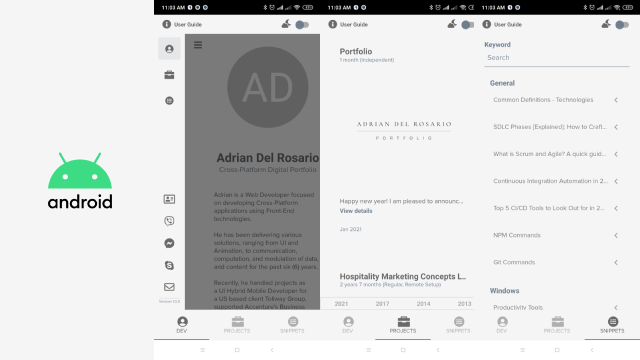
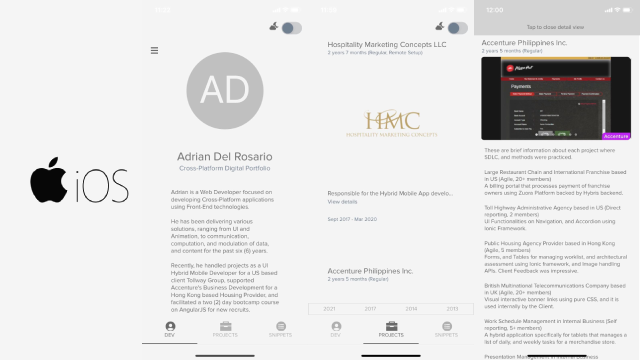
Add projs cover images

diff --git a/app/constants/Projects.tsx b/app/constants/Projects.tsx
@@ -18,6 +18,12 @@ The application supports most common platforms such as, **Web**, **Android**, an
         images: [
           {
             coverImageUri:
+              "https://raw.githubusercontent.com/adriandelr/portfolio/master/app/assets/images/projects/proj-pp.png",
+            cornerLabelColor: "#101111",
+            cornerLabelText: "Portfolio",
+          },
+          {
+            coverImageUri:
               "https://raw.githubusercontent.com/adriandelr/portfolio/master/app/assets/images/projects/proj-pp-1.png",
             cornerLabelColor: "#101111",
             cornerLabelText: "Portfolio",
@@ -81,6 +87,12 @@ Published in both Android and iOS stores.
         date: "Sept 2017 - Mar 2020",
         image: require("../assets/images/logos/logo-hmc.png"),
         images: [
+          {
+            coverImageUri:
+              "https://raw.githubusercontent.com/adriandelr/portfolio/master/app/assets/images/projects/proj-hmc.png",
+            cornerLabelColor: "#B6985A",
+            cornerLabelText: "HMC",
+          },
           {
             coverImageUri:
               "https://raw.githubusercontent.com/adriandelr/portfolio/master/app/assets/images/projects/proj-hmc-1.png",
@@ -171,6 +183,12 @@ Sharing knowledge, and experience on frameworks, data structures, request handli
         images: [
           {
             coverImageUri:
+              "https://raw.githubusercontent.com/adriandelr/portfolio/master/app/assets/images/projects/proj-acn.png",
+            cornerLabelColor: "#BC0DF6",
+            cornerLabelText: "Accenture",
+          },
+          {
+            coverImageUri:
               "https://raw.githubusercontent.com/adriandelr/portfolio/master/app/assets/images/projects/proj-acn-1.png",
             cornerLabelColor: "#BC0DF6",
             cornerLabelText: "Accenture",
@@ -243,6 +261,12 @@ discount based on their location and their shopping preference.
             cornerLabelColor: "#002D42",
             cornerLabelText: "Wideout",
           },
+          {
+            coverImageUri:
+              "https://raw.githubusercontent.com/adriandelr/portfolio/master/app/assets/images/projects/proj-wo-1.png",
+            cornerLabelColor: "#002D42",
+            cornerLabelText: "Wideout",
+          },
         ],
       },
     ],
@@ -262,6 +286,12 @@ Produced video slides and presentations for company news and events updates.`,
           {
             coverImageUri:
               "https://raw.githubusercontent.com/adriandelr/portfolio/master/app/assets/images/projects/proj-ibm.png",
+            cornerLabelColor: "#0370C5",
+            cornerLabelText: "IBM",
+          },
+          {
+            coverImageUri:
+              "https://raw.githubusercontent.com/adriandelr/portfolio/master/app/assets/images/projects/proj-ibm-1.png",
             cornerLabelColor: "#0370C5",
             cornerLabelText: "IBM",
           },
@@ -287,6 +317,12 @@ Developed an interactive touch based flash presentation for their client, Cisco.
             cornerLabelColor: "#BD2229",
             cornerLabelText: "AVOLUTION",
           },
+          {
+            coverImageUri:
+              "https://raw.githubusercontent.com/adriandelr/portfolio/master/app/assets/images/projects/proj-avo-1.png",
+            cornerLabelColor: "#BD2229",
+            cornerLabelText: "AVOLUTION",
+          },
         ],
       },
     ],
@@ -306,6 +342,12 @@ Enhanced web images.`,
           {
             coverImageUri:
               "https://raw.githubusercontent.com/adriandelr/portfolio/master/app/assets/images/projects/proj-cata.png",
+            cornerLabelColor: "#3E73B6",
+            cornerLabelText: "CATA",
+          },
+          {
+            coverImageUri:
+              "https://raw.githubusercontent.com/adriandelr/portfolio/master/app/assets/images/projects/proj-cata-1.png",
             cornerLabelColor: "#3E73B6",
             cornerLabelText: "CATA",
           },
